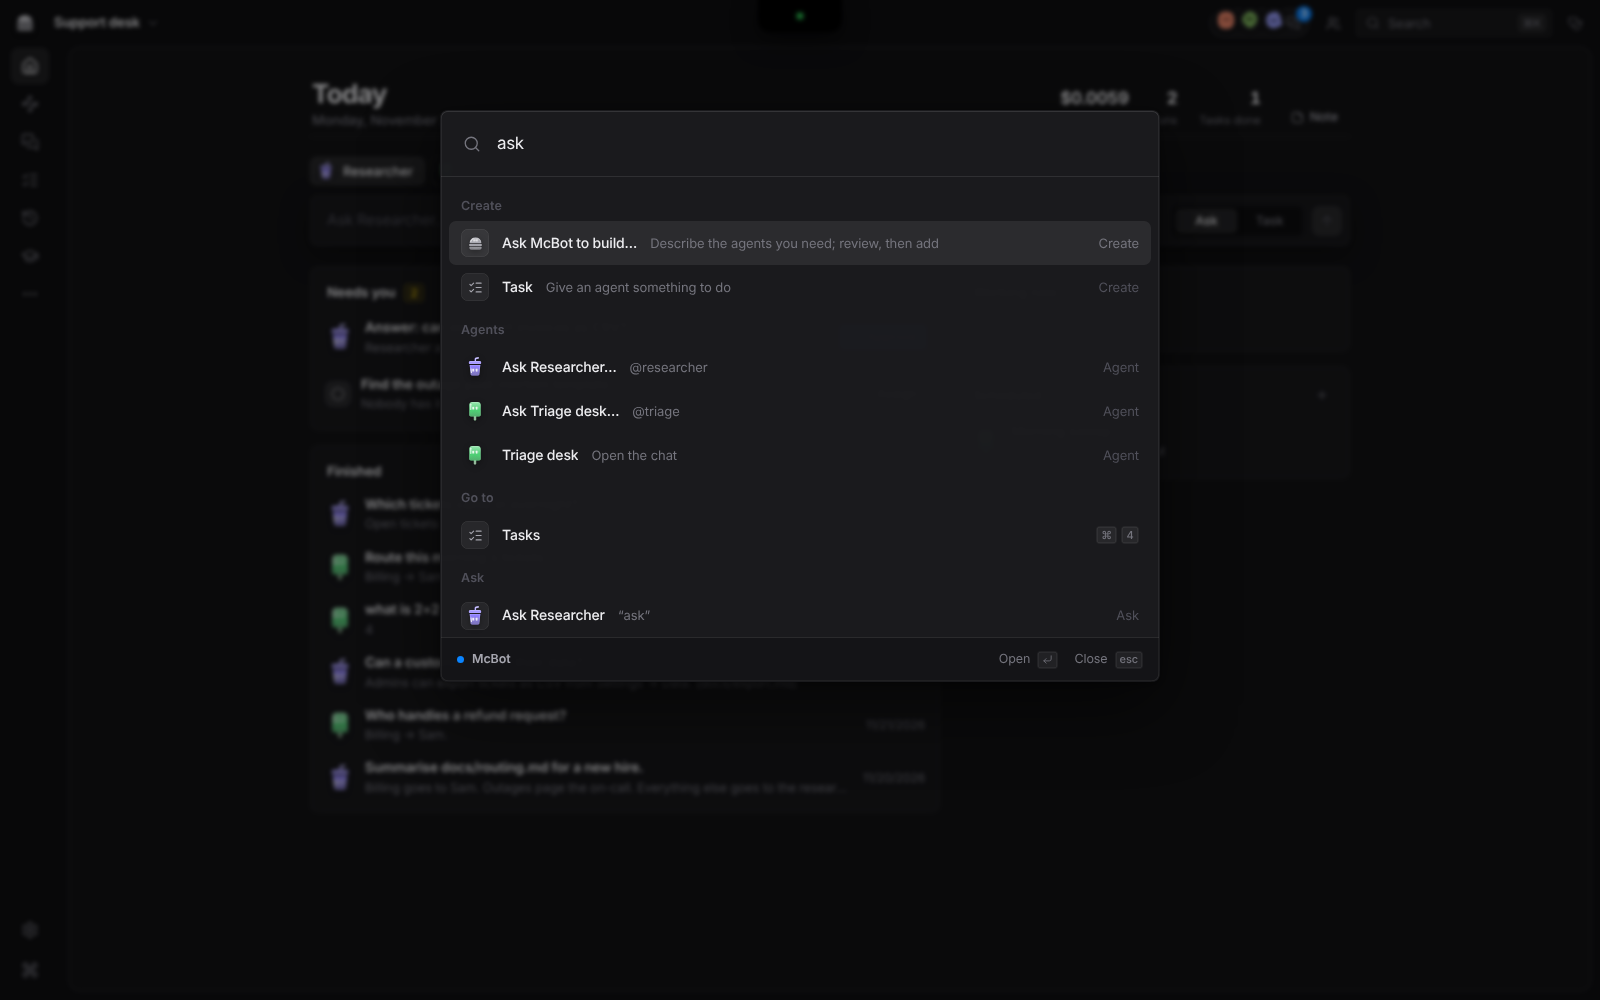
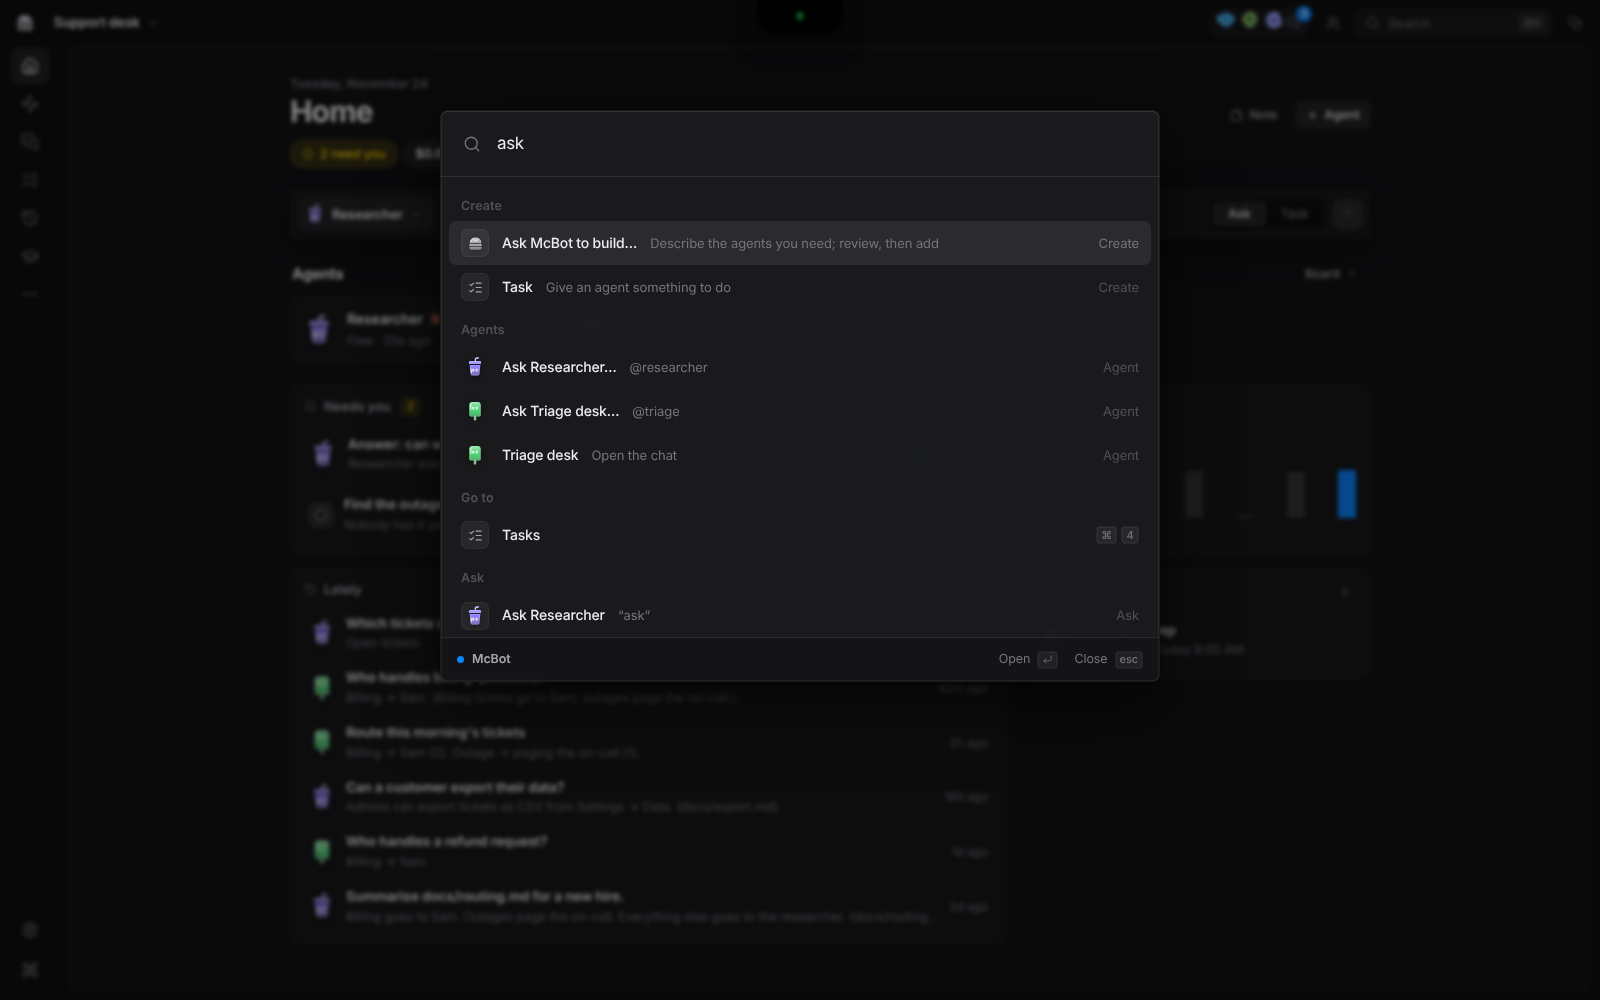
The strategy, release notes, README and screenshots for 0.7
docs/STRATEGY.md lays out where McBot stands and where it goes: what
works today, which Hermes features the board shows and which come next
(with their keys), the competitors (OpenAI Dots, chat apps, OpenBot,
MonoCode, frameworks, workflow builders), graph engineering as the core,
customising McBot by talking to it, spending less per message (only-
these-tools now, code mode for MCP via a Hermes patch next), open models
and a Model lab (M16) for training on your own hardware, licence-checked
projects worth bringing in, and the security and repository steps for
the owner. PLAN gains M16; the 0.7.0 notes, README and screenshots cover
Home, the agent page, History and model marks.

Claude-Session: https://claude.ai/code/session_01AH7QsLvN8se8G8va7oyLC5

diff --git a/docs/STRATEGY.md b/docs/STRATEGY.md
@@ -1,0 +1,179 @@
+# McBot Studio: where it stands and where it goes (2026-11-24)
+
+The plan behind the next releases: what McBot has, what Hermes offers that the board does not show
+yet, what others do, and what we build next and why. Milestone details stay in [PLAN.md](PLAN.md);
+reasons for the order in [NEXT.md](NEXT.md).
+
+## The idea in one paragraph
+
+**AI agents that stay yours.** People draw a team of agents as a graph; the graph is the harness and
+compiles into a real Hermes Agent setup on their own computer. Any model works, local or cloud, and
+switching is a setting, so nobody is stuck when a better model ships or an account is lost. The same
+graph shows what every agent does, remembers and costs. Instead of tuning agents with long prompts,
+people change the drawing: *graph engineering*. McBot is Hermes with design thinking on top.
+
+## What McBot has today (0.7)
+
+| Area | What works | Status |
+|---|---|---|
+| Harness | Board (agents, models with backups, tools, makers, chat apps, hand-offs), compile to real files, read back from Hermes, live two-way sync, Layers view, Hermes view, Live files, doctor, undo | ● |
+| Harness over time | History: a version per compile that changes the harness, changes in words, runs/success/cost/time per version, compare two, restore; harness as text for any AI (⌘K) | ● new |
+| Agents | One page per agent (personality, models, tools, skills, abilities, limits), New agent with 19 starting cards, 8 ready-made teams, Ask McBot builds a team from words | ● |
+| Models | Any OpenAI-compatible model: Ollama, LM Studio, llama.cpp, vLLM, Jan locally; OpenRouter, OpenAI, Anthropic, Gemini, Groq, DeepSeek, Mistral, Together, OpenCode Zen in the cloud; model marks and readable names; thinking level per agent | ● |
+| Tools | 60+ tools: Hermes' vetted connectors, GitHub, keyless web search, any MCP server; "only these tools" per server to cut tokens | ● |
+| Chat apps | 25: Telegram, Slack, Discord, WhatsApp, Signal, Teams, iMessage, email, SMS and more | ● |
+| Skills | 44 built-in, 141 in the library, suggested per agent, any GitHub skill, plugins on/off | ● |
+| Work | Chat with queue and rich answers (tables, charts, drawings), tasks board, schedules, approvals, Stop, daily budgets, cost per agent/model/day, memory you can edit | ● |
+| Workbench | Code editor, terminal, browser view, files as a graph | ◐ (agent-driven browser is next) |
+| Team | Share a board on your network, live cursors, team chat with @agent, no accounts | ● |
+| Mac and PC | Home dashboard, ⌘K, ⌘⇧Space from anywhere, island, menu bar, notifications, dark design, accent colours | ● |
+| Shipping | One download (engine inside), macOS/Windows/Linux, weekly engine updates as PRs, update notice | ◐ (signing, auto-update) |
+
+## Hermes features and the board
+
+McBot must let people use everything Hermes can do, in pictures. Every row that compiles is verified
+in Hermes' source and recorded in [HERMES.md](HERMES.md) (hard rule 2).
+
+| Hermes feature | On the board | Next |
+|---|---|---|
+| Profiles, SOUL.md, model chain and fallback | ● agent page, wires | |
+| Toolsets (web, browser, terminal, files, code, vision, voice, memory, todo, delegation, task board, cron, computer use, …) | ● abilities | per-ability settings where Hermes has them |
+| MCP servers, OAuth sign-in, tool include/exclude | ● tool blocks, only-these-tools | tool lists fetched from the server to tick |
+| Skills (bundled, library, learned), plugins | ● Skills view, agent page | skill authoring with AI |
+| Reasoning effort | ● Thinking per agent | per-model overrides |
+| Steps per message (`agent.max_turns`) | ● | run time budget (`agent.run_budget_seconds`) |
+| Approvals, Stop | ● | approval presets ("always ask before sending, paying, deleting") |
+| Delegation / subagents (`delegation.*`) | ◐ hand-offs | a "helpers think with" wire (cheap model for subagents) |
+| Mixture of agents (`moa.presets`) | ○ | advisor models wired into an agent, drawn as a fan-in |
+| Loops and goals (`/loop`, `/goal`, `goals.max_turns`) | ○ | loop and goal blocks in Layers |
+| Context compression, prompt caching | ○ | compaction threshold and cache settings on the agent page |
+| Checkpoints (file rollback) | ○ | a rollback timeline in Runs |
+| Voice (TTS, STT, wake word) | ◐ ability only | voice settings and a talk button in chat |
+| Gateway platforms | ● 25 chat apps | |
+| ACP (coding CLIs as agents) | ○ | M9: Claude Code, Codex, Gemini CLI as agents |
+| Trajectories (`run_agent.py --save_trajectories`, `batch_runner.py`, `trajectory_compressor.py`) | ○ | the Model lab (below) |
+
+## Who else is in this space
+
+| Product | What it is | What it does well | Where McBot is different |
+|---|---|---|---|
+| OpenAI Dots ([OpenAI](https://openai.com/index/introducing-dots/), Sept 2026) | Always-on agents in ChatGPT, each with a cloud computer and browser, GPT-6 Astra, 4,000 apps, Pro plan and up | Always on, huge app catalogue, polished | OpenAI's models and cloud only, $100+/month; McBot is any model, your computer, free, and you can see and change the harness |
+| ChatGPT, Claude, Grok apps | Chat assistants with tools and agents | Easy, strong models | One company's models; history and memory stay with them; nothing to move when you switch |
+| OpenBot ([listings](https://www.producthunt.com/products/openbot)) | Local-first desktop for persistent agents that run coding CLIs; PolyForm Noncommercial | Agent-to-agent messages, files, embedded browser | Not open source (noncommercial licence); no visible harness, no cost per agent, no approvals by default |
+| MonoCode ([GitHub](https://github.com/hardbeat920/monocode), MIT) | A GUI for coding agents: tabs are sessions, split panes, worktrees | Clean, fast, side-by-side sessions | Coding only; McBot is a whole team for any work, with a harness, memory, cost and chat apps |
+| Agent frameworks (LangGraph, CrewAI) | Code libraries | Flexible | Need Python; McBot is no-code, and its harness is a real Hermes setup |
+| Workflow builders (n8n, Zapier) | Trigger → step automations | Integrations | Steps, not agents; n8n's licence is not open source |
+
+Ideas we take, as features only (never code under a noncommercial or copyleft licence, hard rule 1):
+always-on agents with their own computer (Dots; McBot: M11 background gateway plus computer use),
+side-by-side sessions in split panes (MonoCode; McBot: chat in tabs and splits, M15), agent-to-agent
+messages and file hand-off (OpenBot; McBot: M7).
+
+## The harness is the product: graph engineering
+
+People think in boxes and arrows; agents should be built that way too. The board already is the
+harness. What makes it great:
+
+1. **See it** ●: every part of an agent on one board, layered from outside in (Layers), and the
+   real files beside it (Live files).
+2. **Change it by drawing** ●: wires are model chains, tools, chat apps and hand-offs; the agent page
+   holds the rest. No prompt engineering needed to change behaviour.
+3. **Know which version is better** ● new: History keeps every version with its runs; compare two on
+   success, cost, time and tokens per run.
+4. **Next: test a harness before you ship it** (M9): an *eval set* per board (questions with what a good
+   answer contains); "Run the evals" on two versions and see which answers better and cheaper. Then
+   *A/B live*: send a share of real messages to a candidate version.
+5. **Next: AI that reads and edits the graph** (M9): the harness as text ships now (⌘K "Copy the harness
+   as text"); next, Ask McBot gets the current harness and proposes a change as a reviewable diff
+   ("make the researcher cheaper" → a cheaper model, fewer tools, a budget), and agents get an MCP tool
+   to read the board.
+6. **Next: loops, goals and advisors as shapes** (M9/M10): Hermes' `/loop`, `/goal` and mixture-of-agents
+   drawn on the board, so a loop is a visible cycle and advisors fan into an agent.
+
+## Make McBot yours: customise it by talking to it
+
+Companies need their own views, data and tools inside the app. The plan, in order:
+
+1. **Views you make with AI** (M10): ask "make a view of this week's tickets by customer" and an agent
+   writes a single-file page into `<workspace>/views/`; McBot shows it as a tab, sandboxed (no network,
+   no keys), with a read-only data bridge to runs, cost, tasks and files. Charts and animations come
+   free with it. Views share like any file and go into Packs (M13).
+2. **Web apps as tabs** (M8): pin any site (Gmail, Notion, a dashboard) as a tab in the Browser view;
+   the agent can drive it while you watch, and you can take over.
+3. **Your computer, in reach** (M8/M11): files, code, terminal and browser are in the app; desktop apps
+   are reached through Hermes' computer use (McBot cannot embed another app's window); `mcbot://` links
+   and macOS Shortcuts actions start agents from anywhere.
+4. **Email, databases, social media**: email already works as a chat app (agents answer mail); Postgres
+   and data warehouses through Hermes' connectors (Neon, Supabase, Prisma Postgres, MotherDuck) or any MCP
+   server; social through MCP servers and Hermes' X search. A "Connect" page by category comes with M6.
+
+## Spend less on every message
+
+- **Only the tools an agent needs** ● new: each MCP server's tool list can be cut to what the agent uses
+  (`mcp_servers.<name>.tools.include`); every message then carries fewer tool definitions.
+- **Code instead of tool calls**: Cloudflare's [Code Mode](https://blog.cloudflare.com/code-mode-mcp/) and
+  Anthropic's [code execution with MCP](https://www.anthropic.com/engineering/code-execution-with-mcp) have
+  the model write code against tools instead of loading every definition: Cloudflare reports its whole API
+  in about 1,000 tokens instead of 1.17 million. Hermes already has this for its own tools (the "Code"
+  ability: `execute_code`, programmatic tool calling), not for MCP tools. Plan: a small, marked patch to
+  Hermes (and a PR upstream) that lets `execute_code` call MCP tools, then a per-agent "Code mode for tools"
+  switch.
+- **Cheaper helpers** (next): subagents on a cheap model (`delegation.model`), a cheap backup first, local
+  models where they are good enough, Hermes' prompt caching on.
+- **Know it**: cost per agent, model, day and harness version, with budgets that stop at the limit ●.
+
+## Open models and your own hardware
+
+McBot is for open models and owned hardware first: they run free, private and forever.
+
+1. **Find and run** ●: local servers are found at start; any model with an OpenAI-compatible API works.
+2. **Get models in the app** (next): a model shelf that pulls Ollama models with a progress bar and says
+   which fit this computer's memory.
+3. **The Model lab: train your own** (M16, new): pick good runs from History and chat (thumbs up) →
+   McBot writes a dataset (Hermes' trajectory format) → fine-tune on this computer with MLX-LM on Apple
+   silicon or Unsloth on NVIDIA (or a rented GPU) → serve it with Ollama → it appears as a model block,
+   and History shows whether it beats the cloud model on your own work.
+
+## Open-source projects worth bringing in (licence checked)
+
+| Project | Licence | For |
+|---|---|---|
+| [LobeHub icons](https://github.com/lobehub/lobe-icons) | MIT | model marks ● (in 0.7) |
+| [MLX-LM](https://github.com/ml-explore/mlx-lm) | MIT | fine-tuning on Apple silicon (Model lab) |
+| [Unsloth](https://github.com/unslothai/unsloth) | Apache-2.0 | fine-tuning on NVIDIA (Model lab) |
+| [llama.cpp](https://github.com/ggml-org/llama.cpp), [Ollama](https://github.com/ollama/ollama) | MIT | serving trained models; the model shelf |
+| [Cloudflare Agents SDK](https://github.com/cloudflare/agents) | MIT | reference for Code Mode with MCP |
+| [MCP servers](https://github.com/modelcontextprotocol/servers) | MIT | databases, files, fetch as tools |
+| [Activepieces](https://github.com/activepieces/activepieces) community edition | MIT (check per folder) | to evaluate: hundreds of app integrations exposed over MCP |
+
+Not to copy (features only, if at all): OpenBot (PolyForm Noncommercial), n8n (Sustainable Use),
+tldraw (own licence), Open WebUI (branding clause). See [MERGE.md](MERGE.md).
+
+## Security and the repository
+
+Done in this round: a scan of the whole git history found no real keys (one fake test key); SECURITY.md
+with private reporting; Dependabot (npm, cargo, Actions; Tauri pinned to 2.x); CodeQL on every PR and
+weekly; issue forms and a PR template.
+
+**Keep this repository rather than start a new one.** Its pull requests are part of an open-source
+project's record and build trust; nothing secret is in them; a new repository would lose stars, links,
+releases, the update check (`api.github.com/repos/CasperCrypto/mcbot`) and the website's download
+links. If a clean public face is still wanted: make a new public repository from a single squashed
+commit, archive this one as private, and change those links in one release.
+
+For the owner, in GitHub's settings (McBot cannot change these):
+1. Rename the default branch to `main` (GitHub redirects old links; the workflows already list `main`).
+2. Protect it: pull requests only, CI and CodeQL required, no force-push.
+3. Security: private vulnerability reporting, secret scanning with push protection, Dependabot alerts.
+4. Actions: allow GitHub Actions to create pull requests (the weekly engine update needs it).
+5. Signing when there is budget: Apple Developer ID and a Windows code-signing certificate, then the
+   signed Tauri updater (M11).
+
+## Order of work
+
+| When | What |
+|---|---|
+| 0.7 (this release) | Home dashboard, one page per agent, model marks, thinking level, only-these-tools, History with compare, harness as text, the new website and app icon, security files |
+| Next (0.8) | Ask McBot edits the existing harness as a diff; eval sets; helper and advisor wires; model shelf; web apps as tabs; chat split panes |
+| Then (0.9) | Views made with AI; Code mode for MCP tools (Hermes patch); loops and goals on the board; always-on background gateway, launch at login; signing and auto-update |
+| Later | Model lab (train your own); Packs; phones (approve from your phone); teams across networks |

diff --git a/docs/releases/v0.7.0.md b/docs/releases/v0.7.0.md
@@ -1,5 +1,13 @@
 ## What's new in 0.7.0
 
+- **Know which harness is better.** Every compile that changes the harness is kept in the board's new History, with what changed in words and how its runs went: success, cost, time and tokens per run. Pick two versions to compare them side by side, name the good ones, restore any in one step (⌘Z takes it back). ⌘K "Copy the harness as text" hands the whole graph to any AI.
+- **One page per agent.** Personality, the models it thinks with (main and backups), its tools and chat apps, skills, abilities and limits are on one scrolling page: on the board when you select an agent, and beside its chat (the panel button in the chat header). New agent is now a name, what it does and a starting card; it then opens on that page.
+- **Home, redone.** A large title with the day in pills (who is at work, what needs you, today's spend), one Ask box with the agent picked inside it, your agents as tiles that show what each is doing (Stop and Settings on each), then Needs you, Spent today with the last seven days, Lately and Up next. No greeting.
+- **Models by name and logo.** An agent's model shows as its family's mark and the name people say (Claude Sonnet 4.5, GPT-4o mini, Qwen3 8B) on blocks, tiles, chat, Settings and Cost, so long ids no longer break the layout.
+- **Thinking per agent.** Off, light, medium, deep or deepest, compiled to Hermes' reasoning effort.
+- **Only the tools an agent needs.** A tool block can list just the tools it should offer (patterns work); fewer tool definitions go to the model on every message, so each message costs less.
+- **A bigger app icon.** The glass burger from the website, large on a black tile, on Apple's grid for macOS and full-size for Windows and Linux.
+- **A new website.** Why McBot (your agents stay yours, any model, the harness you can see), the app's chat and the harness compiling as live views, moving brand rows, a comparison and plain answers.
 - **A new design.** Deeper blacks, hairline edges and tighter corners; flat cards, quiet controls and one soft shadow for what floats. Kinds show as a tint behind their glyph, brand logos sit on their own colour, and McBot's burger marks what McBot itself does. The dock is a quiet row of glyphs, the rail's selection slides, Home opens on today (spend, runs, tasks done) and the getting-started list shows its progress. McBot is dark, always; Settings → Appearance (or ⌘K) picks one of macOS's eight accent colours, and every open window follows at once.
 - **GitHub as a tool.** Add GitHub from the tool catalog: repos, issues, pull requests and code search, on GitHub's own hosted server with your token. Your token stays in McBot; the board only names it.
 - **Skills that fit.** The Skills view suggests library skills for each agent from what it is for, a starter agent's own picks first. Skill and category names read properly (Antigravity CLI, Autonomous AI agents, MLOps, MCP servers).
@@ -8,6 +16,9 @@
 - **Cost reads like a chart.** Every day of the last two weeks is on it, ending today, days with no spend included; agents show by name, and the view has a title like the others.
 - **Runs** show tool steps the way the chat does ("Files: list directory"); the tool's own name is in the step's details.
 - Fixed: a long model name pushed an agent block's model and cost out of its card.
+- Fixed: a model wired by dragging out of an agent did not count as its model in Home and Settings.
+- Fixed: a tool list set in Hermes (`tools.include` / `tools.exclude`) was dropped by McBot's next compile; it is now read back and kept.
+- Security: a policy for private reports, Dependabot and CodeQL; the sample board no longer uses placeholder company names.
 - Fixed: the board showed through the inspector and other reading panels.
 - Fixed: on a narrow window the inspector covered the Board, Layers and Hermes switch.
 - Fixed: Ask McBot's request box looked like a plain browser field.

diff --git a/README.md b/README.md
@@ -1,6 +1,6 @@
 # McBot Studio
 
-**Draw your AI team. Get real files. Watch it work.**
+**AI agents that stay yours.** Draw your team, use any model, and see exactly how every agent works.
 
 [mcbot.studio](https://mcbot.studio) · [Try it in your browser](https://mcbot.studio/demo/) · [Download](https://github.com/CasperCrypto/mcbot/releases/latest)
 
@@ -28,6 +28,13 @@ edit and own, as plain files.
   (⌘S). **Layers** shows each agent's harness from the outside in; **Hermes** draws the whole engine
   behind the board. The **harness doctor** finds what would fail (a missing key, a silent model
   server, a chat app nobody may message) and fixes it in one click.
+- **History**: every compile that changes the harness is a version, with what changed in words and how
+  its runs went (success, cost, time, tokens per run). Compare two, keep the better one, restore in a
+  click. ⌘K "Copy the harness as text" gives any AI the whole graph.
+- **Agents**: one page per agent (personality, models, tools, chat apps, skills, abilities, thinking
+  level, budget), beside its chat or on the board. Models show by name and logo (Claude Sonnet 4.5,
+  Qwen3 8B), and a tool can offer only the few tools an agent needs, so every message costs less.
+- **Home**: your agents as live tiles, what needs you, today's spend, what's next, one Ask box.
 - **Chat**: message an agent; tool calls, answer, time, tokens and cost land in the thread. Answers
   can carry tables, charts, choices and drawings. Risky commands stop and ask you (approval cards,
   also in the island at the top of the screen).
@@ -45,9 +52,11 @@ edit and own, as plain files.
 - **Engine updates**: the engine (Hermes Agent, MIT) ships inside; a weekly job merges each new
   stable release, runs every test and opens a pull request, so updates arrive tested.
 
-| Chat | Runs |
+| Home | History: compare two versions |
 |---|---|
-| ![Chat](docs/screenshots/agents.png) | ![Runs](docs/screenshots/runs.png) |
+| ![Home](docs/screenshots/home.png) | ![History](docs/screenshots/history.png) |
+| **An agent's page beside its chat** | **Runs** |
+| ![Agent page](docs/screenshots/agents.png) | ![Runs](docs/screenshots/runs.png) |
 | **Skills that fit each agent** | **Cost** |
 | ![Skills](docs/screenshots/skills.png) | ![Cost](docs/screenshots/cost.png) |
 | **Files: any folder as a graph** | **Memory** |

diff --git a/docs/PLAN.md b/docs/PLAN.md
@@ -11,6 +11,9 @@ in [NEXT.md](NEXT.md). Updated 2026-11-06 from the owner's vision: an
 orchestration app and AI command center, with a code editor, a terminal and an
 AI browser built in.
 
+The strategy as of 2026-11-24 (features, Hermes coverage, competitors, graph engineering,
+customisation, open models and training, security) is in [STRATEGY.md](STRATEGY.md).
+
 Status: ● working today · ◐ started · ○ planned
 
 ## Where McBot stands
@@ -240,6 +243,7 @@ whether setup works.
 | **M13** ○ | Packs and starter teams; import from other agents | A "Dev team" pack installs into a new space and runs |
 | **M14** ○ | Phones | Approve an agent's action from an iPhone |
 | **M15** ◐ | Polish: the dark design ● (macOS's accent colours; the light theme dropped by the owner), layouts, shortcuts, accessibility, languages (brand and agent icons ● done) | Each person arranges McBot their way, and it remembers |
+| **M16** ○ | Model lab: datasets from your best runs (Hermes' trajectory format), fine-tuning on your own hardware (MLX-LM, Unsloth), serving with Ollama, compared in History (STRATEGY.md) | Your own model beats the cloud one on your work, and runs free |
 
 "Now" runs before and alongside M6. Hermes upstream syncs happen whenever the
 daily watchdog opens an issue.

diff --git a/CLAUDE.md b/CLAUDE.md
@@ -495,8 +495,8 @@ auth, no cloud: local JSON + the filesystem.
 
 Auth, SSO, Langfuse, OpenTelemetry, a cloud tier, a marketplace, git
 integration beyond showing status and diffs, A2A. (ACP is in: M9, owner's decision.) The terminal, code editor and browser panes are planned (M8).
-Everything else on the way is ordered in `docs/PLAN.md` (M5–M15, reasons in
-`docs/NEXT.md`); build in that order. Postgres and Redis belong to the
+Everything else on the way is ordered in `docs/PLAN.md` (M5–M16, reasons in
+`docs/NEXT.md`, the strategy and competitors in `docs/STRATEGY.md`); build in that order. Postgres and Redis belong to the
 optional team server only, never the desktop app.
 
 ## Commands
